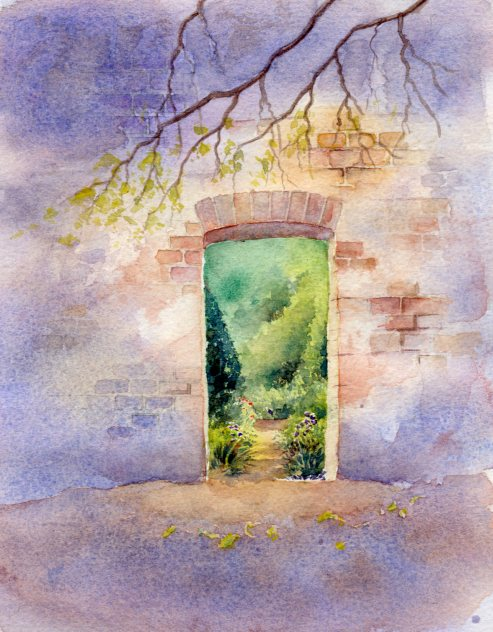
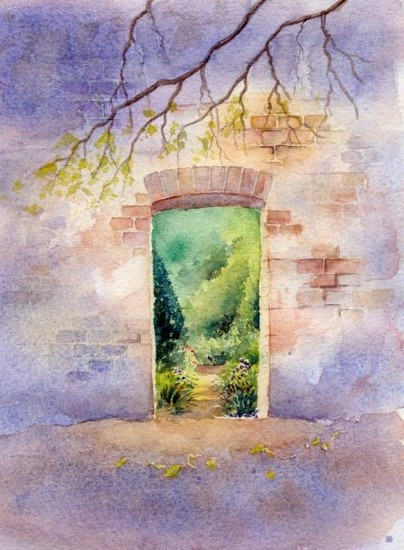
April16.2

diff --git a/galleries/index4.html b/galleries/index4.html
@@ -42,11 +42,11 @@
             <a href="images/summer/7s.jpg" data-lightbox="models">
                 <img src="images/Summer/7s.jpg" />
             </a>
-            <a href="images/sea/81s.png" data-lightbox="models">
+            <a href="images/summer/81s.png" data-lightbox="models">
                 <img src="images/Summer/81s.png" />
             </a>
-            <a href="images/sea/82s.jpg" data-lightbox="models">
-                <img src="images/Summer/82s.jpg" />
+            <a href="images/summer/82s.jpg" data-lightbox="models">
+                <img src="images/summer/82s.jpg" />
             </a>
             <!-- <a href="images/sea/11c.jpg" data-lightbox="models">
                 <img src="images/Summer/11c.jpg" />